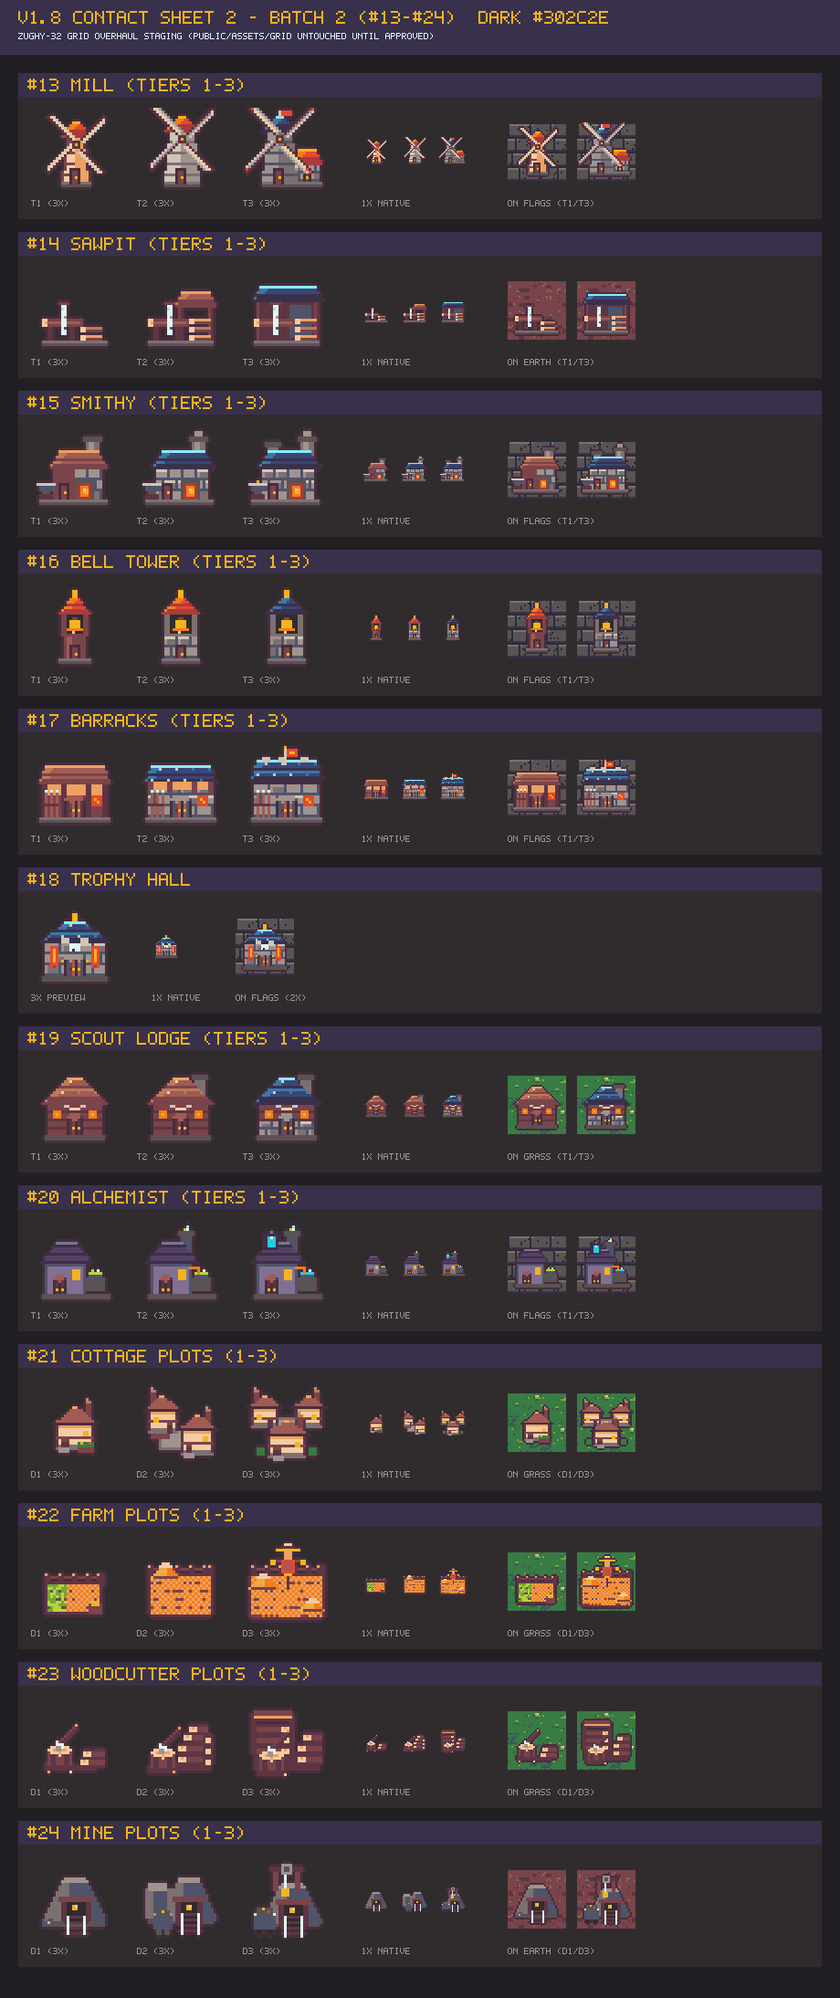
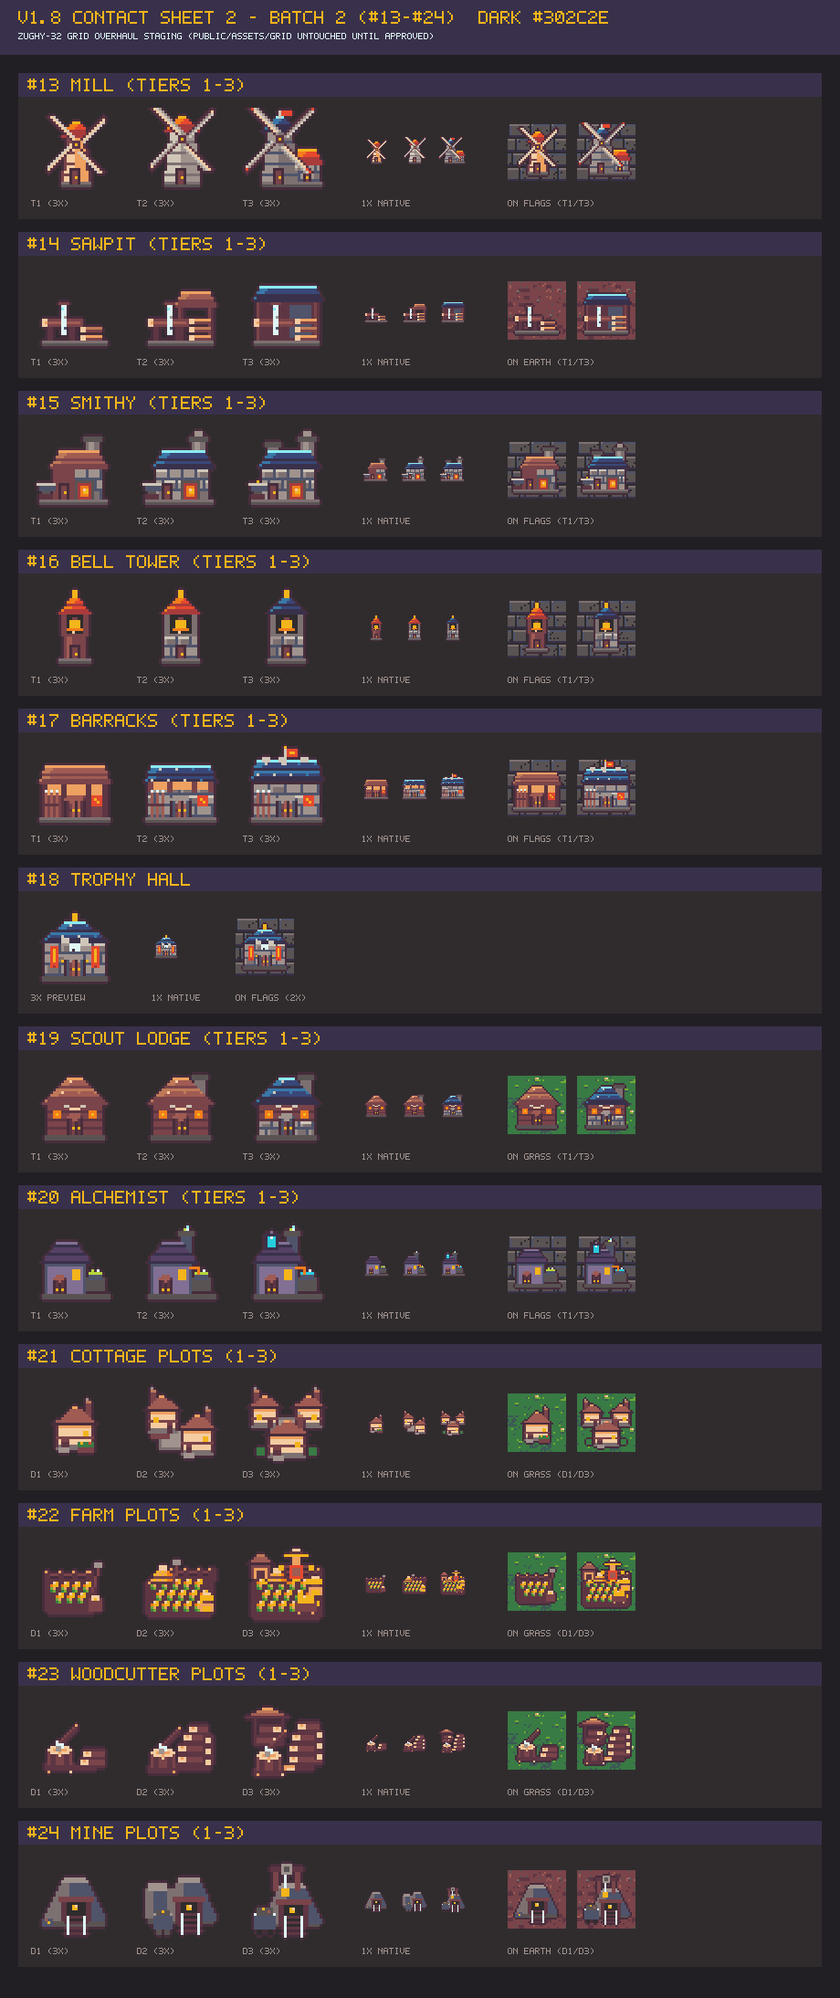
v1.8 T18.9: record Keep marks & redraw farm (1-3) + woodcutter-3

diff --git a/tools/grid-v18-plots.ts b/tools/grid-v18-plots.ts
@@ -113,57 +113,117 @@ function drawSplitRailFence(c: Canvas, x0: number, x1: number, y: number): void 
   c.set(x1 - 1, y, C.sand);
 }
 
-function drawWheatField(
+/** Draws a rich turned-soil patch with chamfered corners and subtle loam ridge lines. */
+function drawLoamBed(
   c: Canvas,
   x0: number,
   y0: number,
   x1: number,
   y1: number,
   seed: number,
-  sproutMix = false,
 ): void {
-  c.rect(x0, y0, x1 - x0 + 1, y1 - y0 + 1, C.brownDark);
-  for (let y = y0; y <= y1; y++) {
-    for (let x = x0; x <= x1; x++) {
-      const h = mixHash(x, y, seed);
-      const isFurrow = (y - y0) % 3 === 2;
-      if (isFurrow && h % 3 === 0) {
-        c.set(x, y, C.brown);
-      } else if (sproutMix && x < x0 + Math.floor((x1 - x0) * 0.4)) {
-        c.set(x, y, h % 2 === 0 ? C.grass : C.lime);
-      } else if ((x + y) % 2 === 0 || h < 2) {
-        c.set(x, y, h === 0 ? C.cream : h === 1 ? C.gold : C.sand);
-      } else {
-        c.set(x, y, h === 2 ? C.gold : C.orange);
+  c.rect(x0 + 1, y0, x1 - x0 - 1, y1 - y0 + 1, C.brownDark);
+  c.rect(x0, y0 + 1, x1 - x0 + 1, y1 - y0 - 1, C.brownDark);
+  for (let y = y0 + 1; y <= y1 - 1; y++) {
+    if ((y - y0) % 3 === 1) {
+      for (let x = x0 + 1; x <= x1 - 1; x++) {
+        if (mixHash(x, y, seed) <= 1) c.set(x, y, C.brown);
       }
     }
   }
 }
 
+/** Draws an organic nodding wheat tuft (green/olive lower stem + curved golden grain plume). */
+function drawWheatTuft(c: Canvas, bx: number, by: number, lean: -1 | 1, tall: boolean): void {
+  // Grounded leaf blades & stem
+  c.set(bx, by, C.moss);
+  c.set(bx + lean, by, C.grass);
+  c.set(bx, by - 1, C.grass);
+  c.set(bx + lean, by - 1, C.sand);
+  // Nodding golden grain head
+  c.set(bx + lean, by - 2, C.gold);
+  c.set(bx + lean * 2, by - 2, C.gold);
+  c.set(bx, by - 2, C.orange);
+  if (tall) {
+    c.set(bx + lean, by - 3, C.cream);
+    c.set(bx + lean * 2, by - 3, C.gold);
+  } else {
+    c.set(bx + lean, by - 2, C.cream);
+  }
+}
+
+/** Draws staggered botanical wheat tufts across turned loam (no flat wall stripes or grid boxes). */
+function drawTuftedWheatRows(
+  c: Canvas,
+  x0: number,
+  y0: number,
+  x1: number,
+  y1: number,
+  seed: number,
+): void {
+  drawLoamBed(c, x0, y0, x1, y1, seed);
+  let rowIdx = 0;
+  for (let by = y0 + 3; by <= y1 - 1; by += 4) {
+    const startX = x0 + 2 + (rowIdx % 2) * 2;
+    for (let bx = startX; bx <= x1 - 3; bx += 4) {
+      const h = mixHash(bx, by, seed);
+      drawWheatTuft(c, bx, by, 1, h !== 2);
+    }
+    rowIdx++;
+  }
+}
+
+/** Draws a plump thatched conical hayrick with layered straw skirts & twine crown. */
 function drawHaystack(c: Canvas, cx: number, bottomY: number, r: number): void {
-  for (let dy = 0; dy <= r + 1; dy++) {
+  for (let dy = 0; dy <= r + 2; dy++) {
     const ry = bottomY - dy;
-    const span = Math.max(1, Math.round((r * (r + 2 - dy)) / (r + 1)));
+    const span = Math.max(1, Math.round((r * (r + 3 - dy)) / (r + 2)));
     for (let dx = -span; dx <= span; dx++) {
-      const col = dy >= r ? C.cream : dx > 0 ? C.orange : dy % 2 === 0 ? C.gold : C.sand;
+      const col =
+        dy >= r + 1
+          ? C.cream
+          : dy === 2
+            ? C.brown
+            : dx > 1
+              ? C.orange
+              : (dx + dy) % 2 === 0
+                ? C.gold
+                : C.sand;
       c.set(cx + dx, ry, col);
     }
   }
-  c.rect(cx - r, bottomY, r * 2 + 1, 1, C.brown);
+  c.rect(cx - r, bottomY, r * 2 + 1, 1, C.brownDark);
+}
+
+/** Draws a waist-tied upright harvest wheat sheaf. */
+function drawBoundSheaf(c: Canvas, cx: number, bottomY: number): void {
+  c.rect(cx - 2, bottomY - 5, 5, 2, C.gold);
+  c.rect(cx - 1, bottomY - 6, 3, 1, C.cream);
+  c.rect(cx - 1, bottomY - 3, 3, 1, C.brown);
+  c.rect(cx - 2, bottomY - 2, 5, 3, C.sand);
+  c.rect(cx - 1, bottomY - 1, 3, 2, C.gold);
+}
+
+/** Draws a small pitched timber grain crib / threshing shed anchoring Tier 3 farms. */
+function drawHarvestShed(c: Canvas, x: number, y: number): void {
+  for (let r = 0; r < 4; r++) {
+    const span = 3 + r * 2;
+    const rx = x + 4 - Math.floor(span / 2);
+    c.rect(rx, y + r, span, 1, r === 0 ? C.clay : r === 3 ? C.wine : C.rust);
+  }
+  c.rect(x + 1, y + 4, 7, 5, C.brown);
+  c.rect(x + 2, y + 5, 5, 4, C.sand);
+  c.rect(x + 3, y + 6, 3, 3, C.brownDark);
 }
 
 function drawScarecrow(c: Canvas, cx: number, footY: number): void {
-  // Timber cross post anchored into wheat with arms rising above rear fence horizon
   c.rect(cx, footY - 13, 1, 14, C.brownDark);
   c.rect(cx - 5, footY - 10, 11, 1, C.brown);
-  // Straw sleeve tufts at crossbar tips
   c.rect(cx - 6, footY - 10, 2, 2, C.gold);
   c.rect(cx + 5, footY - 10, 2, 2, C.gold);
-  // Bright terracotta crimson patched coat
   c.rect(cx - 2, footY - 10, 5, 5, C.red);
   c.rect(cx - 1, footY - 9, 3, 3, C.rust);
   c.rect(cx - 1, footY - 5, 3, 1, C.gold);
-  // Burlap head & wide conical straw hat cleanly contrasting above the fence rail
   c.rect(cx - 1, footY - 13, 3, 3, C.sand);
   c.rect(cx - 4, footY - 14, 9, 1, C.gold);
   c.rect(cx - 2, footY - 15, 5, 1, C.brownDark);
@@ -172,37 +232,45 @@ function drawScarecrow(c: Canvas, cx: number, footY: number): void {
 
 function drawFarm(c: Canvas, density: 1 | 2 | 3): void {
   if (density === 1) {
-    // Compact kitchen garden patch: soil furrows, green shoots, starter wheat & bushel basket
-    drawSplitRailFence(c, 5, 25, 13);
-    drawWheatField(c, 6, 17, 24, 27, 101, true);
-    c.rect(5, 17, 1, 11, C.brownDark);
-    c.rect(25, 17, 1, 11, C.brownDark);
-    c.rect(6, 27, 19, 1, C.brownDark);
-    c.rect(21, 24, 5, 4, C.brown);
-    c.rect(22, 23, 3, 2, C.gold);
+    // Tier 1: modest chamfered loam plot behind corner fence + staggered waving wheat tufts + fork & bushel
+    drawSplitRailFence(c, 5, 22, 12);
+    drawTuftedWheatRows(c, 5, 16, 23, 27, 101);
+    // Leaning oak hayfork beside top-right post
+    c.line(24, 11, 22, 19, C.brown);
+    c.rect(23, 9, 3, 2, C.ash);
+    // Woven harvest bushel overflowing with golden wheat at lower-right corner
+    c.rect(21, 22, 5, 5, C.brown);
+    c.rect(22, 21, 3, 2, C.cream);
+    c.set(23, 22, C.gold);
     return;
   }
 
   if (density === 2) {
-    // Medium harvest plot + tall conical haystack breaking silhouette above rear rail
-    drawSplitRailFence(c, 4, 27, 10);
-    drawWheatField(c, 5, 14, 26, 27, 202);
-    drawHaystack(c, 10, 14, 4);
-    c.rect(4, 14, 1, 14, C.brownDark);
-    c.rect(27, 14, 1, 14, C.brownDark);
-    c.rect(5, 28, 22, 1, C.brownDark);
+    // Tier 2: upper conical hayrick + hayfork + broad open botanical wheatfield + bound sheaf
+    drawSplitRailFence(c, 12, 27, 11);
+    drawTuftedWheatRows(c, 3, 15, 27, 28, 202);
+    drawHaystack(c, 9, 16, 4);
+    c.line(14, 9, 13, 16, C.brown);
+    c.rect(13, 8, 3, 2, C.ash);
+    drawBoundSheaf(c, 25, 26);
     return;
   }
 
-  // Density 3: expansive unified golden field + twin corner haystacks + elevated proud scarecrow
-  drawSplitRailFence(c, 3, 28, 10);
-  drawWheatField(c, 3, 14, 28, 28, 303);
-  c.rect(2, 14, 1, 15, C.brownDark);
-  c.rect(29, 14, 1, 15, C.brownDark);
-  c.rect(3, 29, 26, 1, C.brownDark);
-  drawHaystack(c, 7, 18, 4);
-  drawHaystack(c, 25, 26, 3);
-  drawScarecrow(c, 16, 18);
+  // Tier 3: grain shed + hayrick + sweeping tufted golden wheatfield + rising scarecrow + laden wheelcart
+  drawSplitRailFence(c, 14, 28, 11);
+  drawTuftedWheatRows(c, 3, 15, 28, 29, 303);
+  drawHarvestShed(c, 2, 6);
+  drawHaystack(c, 12, 16, 3);
+  drawScarecrow(c, 19, 20);
+  drawBoundSheaf(c, 26, 20);
+  // Wheeled harvest cart laden with sheaves on lower-right corner
+  c.rect(19, 23, 8, 4, C.brown);
+  c.rect(20, 21, 6, 3, C.gold);
+  c.set(22, 21, C.cream);
+  c.rect(20, 27, 2, 2, C.brownDark);
+  c.rect(25, 27, 2, 2, C.brownDark);
+  c.set(20, 27, C.sand);
+  c.set(25, 27, C.sand);
 }
 
 /** Draws a circular pale-ringed stacked log facing the viewer. */
@@ -259,21 +327,44 @@ function drawWoodcutter(c: Canvas, density: 1 | 2 | 3): void {
     return;
   }
 
-  // Density 3: timber woodshed + full cordwood rick + foreground chopping block & axe
-  c.rect(4, 20, 24, 7, C.brownDark);
-  c.rect(3, 6, 16, 3, C.brownDark);
-  c.rect(4, 5, 14, 2, C.brown);
-  c.rect(4, 7, 14, 1, C.sand);
-  c.rect(3, 9, 2, 12, C.brownDark);
-  c.rect(17, 9, 2, 12, C.brownDark);
-  drawStackedLog(c, 5, 10, 12, true);
-  drawStackedLog(c, 5, 14, 12, true);
-  drawStackedLog(c, 5, 18, 12, true);
-  drawStackedLog(c, 20, 21, 9, false);
-  drawStackedLog(c, 20, 17, 9, false);
-  drawStackedLog(c, 22, 13, 7, false);
-  drawStumpWithAxe(c, 10, 28);
-  c.set(15, 28, C.cream);
+  // Density 3 (clean open-air evolution of woodcutter-1 & 2): woodshed awning + stepped horizontal logs + foreground stump & axe
+  // Low compact woodchip sill uniting stump on left to tall horizontal cordwood rick on right
+  c.rect(8, 25, 18, 2, C.brownDark);
+
+  // Pitched timber awning shelter at top-left (widening downward to eaves + thin posts)
+  for (let row = 0; row < 4; row++) {
+    const span = 4 + row * 4;
+    const rx = 9 - Math.floor(span / 2);
+    c.rect(
+      rx,
+      4 + row,
+      span,
+      1,
+      row === 0 ? C.sand : row === 1 ? C.clay : row === 2 ? C.rust : C.brownDark,
+    );
+  }
+  c.rect(4, 8, 1, 10, C.brownDark);
+  c.rect(14, 8, 1, 10, C.brownDark);
+  // Two horizontal cylindrical logs stacked cleanly beneath the shelter awning
+  drawStackedLog(c, 5, 14, 9, true);
+  drawStackedLog(c, 6, 10, 8, true);
+
+  // Stepped horizontal cordwood rick on right (clean circular cut ends on left, matching D1/D2 language)
+  drawStackedLog(c, 17, 21, 12, false);
+  drawStackedLog(c, 17, 17, 12, false);
+  drawStackedLog(c, 18, 13, 11, false);
+  drawStackedLog(c, 20, 9, 8, false);
+  c.rect(26, 12, 3, 11, C.brownDark);
+  c.rect(27, 13, 2, 2, C.cream);
+  c.rect(27, 17, 2, 2, C.cream);
+  c.rect(27, 21, 2, 2, C.cream);
+
+  // Foreground flared chopping stump + gleaming embedded axe + two split billets
+  drawStumpWithAxe(c, 9, 28);
+  c.set(5, 28, C.sand);
+  c.set(14, 28, C.cream);
+  c.rect(15, 25, 4, 2, C.sand);
+  c.rect(16, 26, 3, 1, C.cream);
 }
 
 /** Draws faceted granite cliff mass & timber-shored arched mine adit glowing with warm lantern. */

diff --git a/tools/contact-sheet-v18.ts b/tools/contact-sheet-v18.ts
@@ -98,11 +98,24 @@ const APPROVED_BATCH1_MARKS: Readonly<Record<number, 'Keep' | 'Redraw' | 'Pendin
   12: 'Keep',
 };
 
-const BATCH2_MARKS: Readonly<Record<number, 'Keep' | 'Redraw' | 'Pending'>> = {};
+const BATCH2_MARKS: Readonly<Record<number, string>> = {
+  13: 'Keep',
+  14: 'Keep',
+  15: 'Keep',
+  16: 'Keep',
+  17: 'Keep',
+  18: 'Keep',
+  19: 'Keep',
+  20: 'Keep',
+  21: 'Keep',
+  22: 'Pending (round 2 redraw: all tiers)',
+  23: 'Pending (D1-D2 Keep; D3 round 2 redraw)',
+  24: 'Keep',
+};
 
 function formatMarkRows(
   subjects: readonly Batch1Subject[],
-  marksMap: Readonly<Record<number, 'Keep' | 'Redraw' | 'Pending'>>,
+  marksMap: Readonly<Record<number, string>>,
 ): string {
   return subjects
     .map(

diff --git a/docs/implementation-plan.md b/docs/implementation-plan.md
@@ -1390,7 +1390,7 @@ Each task is one session (`AGENTS.md`). Note the interleaving of sprite batches 
 - [x] **T18.6 `8 × 12` `HoldGrid`, `Arrange Hold` tactical overlays & Preset/Mode controls** *(ui)*. Update `HoldGrid.tsx` (`256 × 384 px` internal scale, non-interactive card header) and `ArrangeHoldSheet.tsx` (`8` columns × `44 px` = `352 px`, zero horizontal scroll at `360–390 px`, `data-internal-scroll` preserved for `320 px`), adding colorblind-safe AoE adjacency links/badges, `Warded`/`Exposed` perimeter shading, `Screened` tower mark, 2-slot Preset bar, and *Balanced / Economy / Fortress* selector (all Reduce Motion compliant, `≥ 44 × 44 px` tap targets). **Acceptance:** Playwright checks verify `360/390 px` no-horizontal-scroll, `320 px` Largest text fit, live tactical indicators, and Preset swapping; `npm run check` green.
 - [x] **T18.7 *Hold Look* toggle sheet, `HoldScene` mirrored accents & `Breakdown` lines** *(ui, content)*. Build the **Hold Look** drawer accessible from Hold / `Arrange Hold` to toggle each unlocked Courtyard Mark and bought `COSMETIC_IDS` individually on `HoldGrid.tsx` and `HoldScene.tsx`; surface AoE & `Warded` tactical lines inside resource `Breakdown` and `v7` lines inside `StandSheet` / wave logs; add formal `§9.21`/`§9.26` string tables to `gdd.md` and update `breach-text-all.test.ts`'s `\n### 9.26` boundary (`D624`). **Acceptance:** UI string tests, `Hold Look` toggle Playwright tests, and `Breakdown` parity tests pass; `npm run check` green.
 - [x] **T18.8 Grid Art Batch 1 (`≤ 12` subjects): `hearth-hall`, grounds, borders, `wall` kit & `watchtower`** *(art; all `#01`–`#12` approved Keep — deploys in `T18.11`)*. Author crisp unified Zughy-32 pixel-art bases for `hearth-hall` (`64 × 64 px`), clearing ground tiles, north Breach & south gate border strips, `watchtower`, and core `wall` segments/caps (+ deterministic 16-mask wall & border builder); stage numbered Contact Sheet 1 on dark and light themes. **Acceptance:** 100% Zughy-32 palette, exact tile geometry, `npm run check` green. **Stop** for owner Keep/Redraw marks.
-- [ ] **T18.9 Grid Art Batch 2 (`≤ 12` subjects): `8` level buildings & primary plot archetypes** *(art; staged `#13`–`#24` on Contact Sheet 2 — awaiting owner Keep/Redraw marks)*. Author unified Zughy-32 tiles for all `8` level buildings (`mill`, `sawpit`, `smithy`, `bell-tower`, `barracks`, `trophy-hall`, `lodge`, `alchemist` across visual tiers) and primary plot archetypes (`cottage`, `farm`, `woodcutter`, `mine`; remaining plots & Courtyard Marks follow in `T18.10` per `D475`); stage Contact Sheet 2 on dark and light themes. **Acceptance:** 100% Zughy-32 palette, crisp contrast at mobile scale, `npm run check` green. **Stop** for owner Keep/Redraw marks.
+- [ ] **T18.9 Grid Art Batch 2 (`≤ 12` subjects): `8` level buildings & primary plot archetypes** *(art; `#13`–`#21`, `#24` & `woodcutter-1..2` Keep; round 2 redraws `farm-1..3` & `woodcutter-3` awaiting Keep check)*. Author unified Zughy-32 tiles for all `8` level buildings (`mill`, `sawpit`, `smithy`, `bell-tower`, `barracks`, `trophy-hall`, `lodge`, `alchemist` across visual tiers) and primary plot archetypes (`cottage`, `farm`, `woodcutter`, `mine`; remaining plots & Courtyard Marks follow in `T18.10` per `D475`); stage Contact Sheet 2 on dark and light themes. **Acceptance:** 100% Zughy-32 palette, crisp contrast at mobile scale, `npm run check` green. **Stop** for owner Keep/Redraw marks.
 - [ ] **T18.10 Grid Art Batch 3 (`≤ 12` subjects): Remaining plot tiers & `6` Event *Courtyard Marks*** *(art; stops for owner approval)*. Complete plot density variants plus the `6` Event **Courtyard Marks** (`HoldGrid` overlays and matching `HoldScene` visual accents) in 100% Zughy-32 palette; stage Contact Sheet 3 on dark and light themes. **Acceptance:** all 6 Courtyard Marks crisp and visually distinct on both themes; `npm run check` green. **Stop** for owner Keep/Redraw marks.
 - [ ] **T18.11 Deploy all `v1.8` grid & Courtyard Mark art, hash freeze & accessibility sweeps** *(art deploy, tools, tests)*. Back up replaced PNGs in `art-src/previous-v1.8/grid/`, deploy approved Batches 1–3 into `public/assets/grid/` / `scenes/`, freeze SHA-256 hashes in `art-src/v1.8-grid-hashes.json`, register `isV18Asset` in `tools/contact-sheet-data.ts` + `layout-grid-art.test.ts`, bump `D615`'s packed-PNG ceiling cleanly in `png-pack.test.ts` (keeping `dist/` gzipped `≤ 614,400 B`), and update + run `polish-screens.ts` tap-target, width (`320–1300 px`), Largest text, Reduce Motion, and light/dark contrast sweeps. **Acceptance:** 0 sweep findings, hashes & `isV18Asset` verified, `dist/` gzipped `≤ 614,400 B`, `npm run check` green.
 - [ ] **T18.12 Simulator policy teaching & `v1.8` calibration table** *(sim; stops for owner calibration approval)*. Upgrade `sim/` policies (`tactician`, standard policies' preset/arrange use) for `8 × 12` AoE adjacency, `Warded` enclosures, and `v7` Breach rules; run 5-seed probes (`Economy`, `Balanced`, `Fortress` vs. careless `8×12` layouts) and present the measured calibration table (`layout.*` and `breach.{rampartBonus,screenedBonus,sectorBonus}`) to the owner. **Acceptance:** calibration report builds cleanly without hitting `2×` silent jumps; `npm run check` green. **Stop** for owner confirmation of final `balance.ts` values.

diff --git a/docs/progress.md b/docs/progress.md
@@ -6,8 +6,8 @@ Newest entry at the bottom. One entry per Claude Code session (CLAUDE.md, "Sessi
 
 - **Branch:** `milestone/v1.8` (local branch from `main`; `T18.9` staged).
 - **Milestone:** v1.8 "Ward & Rampart" (`D617`–`D627`), **in progress** (`T18.1`–`T18.8` complete; `T18.9` staged awaiting owner Keep/Redraw marks).
-- **Last task:** `T18.9` — Grid Art Batch 2 (`#13`–`#24`: `8` level buildings & `4` primary plot archetypes, `34` PNGs) staged in `art-src/v1.8-staging/` alongside Dark & Light Contact Sheet 2 (`public/assets/grid/` untouched until `T18.11`).
-- **Next:** Awaiting owner **Keep / Redraw** marks on Contact Sheet 2 (`#13`–`#24`), then `T18.10` — Grid Art Batch 3 (`herb-garden`, `silver-seam` & `6` Event *Courtyard Marks*).
+- **Last task:** `T18.9` — Grid Art Batch 2 round 2 (`#13`–`#21`, `#24` & `woodcutter-1..2` marked **Keep**; `farm-1..3` & `woodcutter-3` redrawn and re-staged in `art-src/v1.8-staging/` alongside updated Dark & Light Contact Sheet 2).
+- **Next:** Awaiting owner **Keep / Redraw** confirmation on `#22` (`farm-1..3`) & `#23` (`woodcutter-3`), then `T18.10` — Grid Art Batch 3 (`herb-garden`, `silver-seam` & `6` Event *Courtyard Marks*).
 - **Open questions:** None (`Q79`–`Q82` answered `(a)`).
 
 Earlier entries are in [`docs/archive/progress-2026-10-31-to-11-09.md`](archive/progress-2026-10-31-to-11-09.md) (v1.6 atmosphere polish through v1.7 VB.5), [`docs/archive/progress-2026-10-28-to-31.md`](archive/progress-2026-10-28-to-31.md) (v1.4 TD.11 to v1.6 portraits), [`docs/archive/progress-2026-10-24-to-28.md`](archive/progress-2026-10-24-to-28.md) (v1.3 KV.11 to v1.4 TD.10), [`docs/archive/progress-2026-10-11-to-15.md`](archive/progress-2026-10-11-to-15.md) (to T8.15), [`docs/archive/progress-2026-10-15-to-21.md`](archive/progress-2026-10-15-to-21.md) (T8.16 to T11.15) and [`docs/archive/progress-2026-10-21-to-24.md`](archive/progress-2026-10-21-to-24.md) (v0.11 session 17 to v1.3 KV.10). Read only the last entry at session start.
@@ -151,3 +151,9 @@ Earlier entries are in [`docs/archive/progress-2026-10-31-to-11-09.md`](archive/
 - **Contact Sheet 2 & tracker (`tools/contact-sheet-v18.ts`, `docs/flesh-out/v1.8/`):** Extended `tools/contact-sheet-v18.ts` with a shared renderer and `--batch 1|2|all` selector, generated dark (`docs/flesh-out/v1.8/contact-sheets/contact-sheet-2-dark.png`, `#302c2e`) and light (`docs/flesh-out/v1.8/contact-sheets/contact-sheet-2-light.png`, `#cfc6b8`) sheets showing `3×`, native `1×`, and clearing-composite (`grass`/`earth`/`flags`) previews, and updated `docs/flesh-out/v1.8/art-marks.md` preserving Batch 1 `Keep` (`#01`–`#12`) with Batch 2 `Pending` (`#13`–`#24`).
 - **Tests & verification (`tests/tools/grid-v18-batch2.test.ts`):** Added tests-first verification for the `12`-subject cap (`#13`–`#24`), 100% Zughy-32 compliance, deterministic distinct tiers, `mill-1` sail span, single-island `sawpit-3`/`alchemist-3`, `barracks` vs `cottage` distinction, packed staging PNGs, Contact Sheet 2 dark/light + preserved Batch 1 marks, and untouched `public/assets/grid/`. Updated `tests/tools/grid-v18-batch1.test.ts` to scope `Keep` checks to the Batch 1 section; ran `npm run check` green (`≤ 90 s`).
 - **Next:** Stop for owner **Keep / Redraw** marks on `#13`–`#24`, then `T18.10` (`herb-garden`, `silver-seam` & `6` Event *Courtyard Marks*).
+
+## 2026-11-15 — v1.8 T18.9 (round 2): Recorded Keep marks on #13–#21, #24 & woodcutter-1..2; redrawn farm (1–3) & woodcutter-3
+- **Owner marks (`docs/flesh-out/v1.8/art-marks.md`):** Recorded **Keep** on `#13`–`#21` (`mill`, `sawpit`, `smithy`, `bell-tower`, `barracks`, `trophy-hall`, `lodge`, `alchemist`, `cottage`), `#24` (`mine`), and `woodcutter-1..2`; kept all approved PNGs byte-identical in `art-src/v1.8-staging/`.
+- **Round 2 redraws (`tools/grid-v18-plots.ts`):** Rebuilt `farm-1..3` with chamfered dark-loam beds and nodding botanical wheat tufts (`drawLoamBed`/`drawWheatTuft`) across `farm-1` (tilled starter plot + hayfork & overflowing bushel), `farm-2` (conical thatched hayrick + hayfork + waving wheat rows + bound sheaf), and `farm-3` (threshing shed + hayrick + rising scarecrow + laden grain wheelcart); rebuilt `woodcutter-3` as an open-air sloped timber canopy shelter over horizontal logs beside a stepped cordwood rick and foreground stump + axe (dropping the solid chest & grid spots).
+- **Regeneration & verification:** Updated `BATCH2_MARKS` in `tools/contact-sheet-v18.ts`, regenerated Dark & Light Contact Sheet 2, confirmed `public/assets/grid/` (`83` files) untouched, and ran `npm run check` green (`≤ 90 s`).
+- **Next:** Stop for owner **Keep / Redraw** confirmation on `#22` (`farm-1..3`) and `#23` (`woodcutter-3`).

diff --git a/docs/flesh-out/v1.8/art-marks.md b/docs/flesh-out/v1.8/art-marks.md
@@ -23,15 +23,15 @@ Reviewed across 3 numbered batches (`T18.8`, `T18.9`, `T18.10`, `D623`, `D475`).
 
 | n | id | name | mark | staged files |
 |---|---|---|---|---|
-| 13 | `grid.mill` | MILL (TIERS 1-3) | Pending | `mill-1.png`, `mill-2.png`, `mill-3.png` |
-| 14 | `grid.sawpit` | SAWPIT (TIERS 1-3) | Pending | `sawpit-1.png`, `sawpit-2.png`, `sawpit-3.png` |
-| 15 | `grid.smithy` | SMITHY (TIERS 1-3) | Pending | `smithy-1.png`, `smithy-2.png`, `smithy-3.png` |
-| 16 | `grid.bell-tower` | BELL TOWER (TIERS 1-3) | Pending | `bell-tower-1.png`, `bell-tower-2.png`, `bell-tower-3.png` |
-| 17 | `grid.barracks` | BARRACKS (TIERS 1-3) | Pending | `barracks-1.png`, `barracks-2.png`, `barracks-3.png` |
-| 18 | `grid.trophy-hall` | TROPHY HALL | Pending | `trophy-hall.png` |
-| 19 | `grid.lodge` | SCOUT LODGE (TIERS 1-3) | Pending | `lodge-1.png`, `lodge-2.png`, `lodge-3.png` |
-| 20 | `grid.alchemist` | ALCHEMIST (TIERS 1-3) | Pending | `alchemist-1.png`, `alchemist-2.png`, `alchemist-3.png` |
-| 21 | `grid.cottage` | COTTAGE PLOTS (1-3) | Pending | `cottage-1.png`, `cottage-2.png`, `cottage-3.png` |
-| 22 | `grid.farm` | FARM PLOTS (1-3) | Pending | `farm-1.png`, `farm-2.png`, `farm-3.png` |
-| 23 | `grid.woodcutter` | WOODCUTTER PLOTS (1-3) | Pending | `woodcutter-1.png`, `woodcutter-2.png`, `woodcutter-3.png` |
-| 24 | `grid.mine` | MINE PLOTS (1-3) | Pending | `mine-1.png`, `mine-2.png`, `mine-3.png` |
+| 13 | `grid.mill` | MILL (TIERS 1-3) | Keep | `mill-1.png`, `mill-2.png`, `mill-3.png` |
+| 14 | `grid.sawpit` | SAWPIT (TIERS 1-3) | Keep | `sawpit-1.png`, `sawpit-2.png`, `sawpit-3.png` |
+| 15 | `grid.smithy` | SMITHY (TIERS 1-3) | Keep | `smithy-1.png`, `smithy-2.png`, `smithy-3.png` |
+| 16 | `grid.bell-tower` | BELL TOWER (TIERS 1-3) | Keep | `bell-tower-1.png`, `bell-tower-2.png`, `bell-tower-3.png` |
+| 17 | `grid.barracks` | BARRACKS (TIERS 1-3) | Keep | `barracks-1.png`, `barracks-2.png`, `barracks-3.png` |
+| 18 | `grid.trophy-hall` | TROPHY HALL | Keep | `trophy-hall.png` |
+| 19 | `grid.lodge` | SCOUT LODGE (TIERS 1-3) | Keep | `lodge-1.png`, `lodge-2.png`, `lodge-3.png` |
+| 20 | `grid.alchemist` | ALCHEMIST (TIERS 1-3) | Keep | `alchemist-1.png`, `alchemist-2.png`, `alchemist-3.png` |
+| 21 | `grid.cottage` | COTTAGE PLOTS (1-3) | Keep | `cottage-1.png`, `cottage-2.png`, `cottage-3.png` |
+| 22 | `grid.farm` | FARM PLOTS (1-3) | Pending (round 2 redraw: all tiers) | `farm-1.png`, `farm-2.png`, `farm-3.png` |
+| 23 | `grid.woodcutter` | WOODCUTTER PLOTS (1-3) | Pending (D1-D2 Keep; D3 round 2 redraw) | `woodcutter-1.png`, `woodcutter-2.png`, `woodcutter-3.png` |
+| 24 | `grid.mine` | MINE PLOTS (1-3) | Keep | `mine-1.png`, `mine-2.png`, `mine-3.png` |
